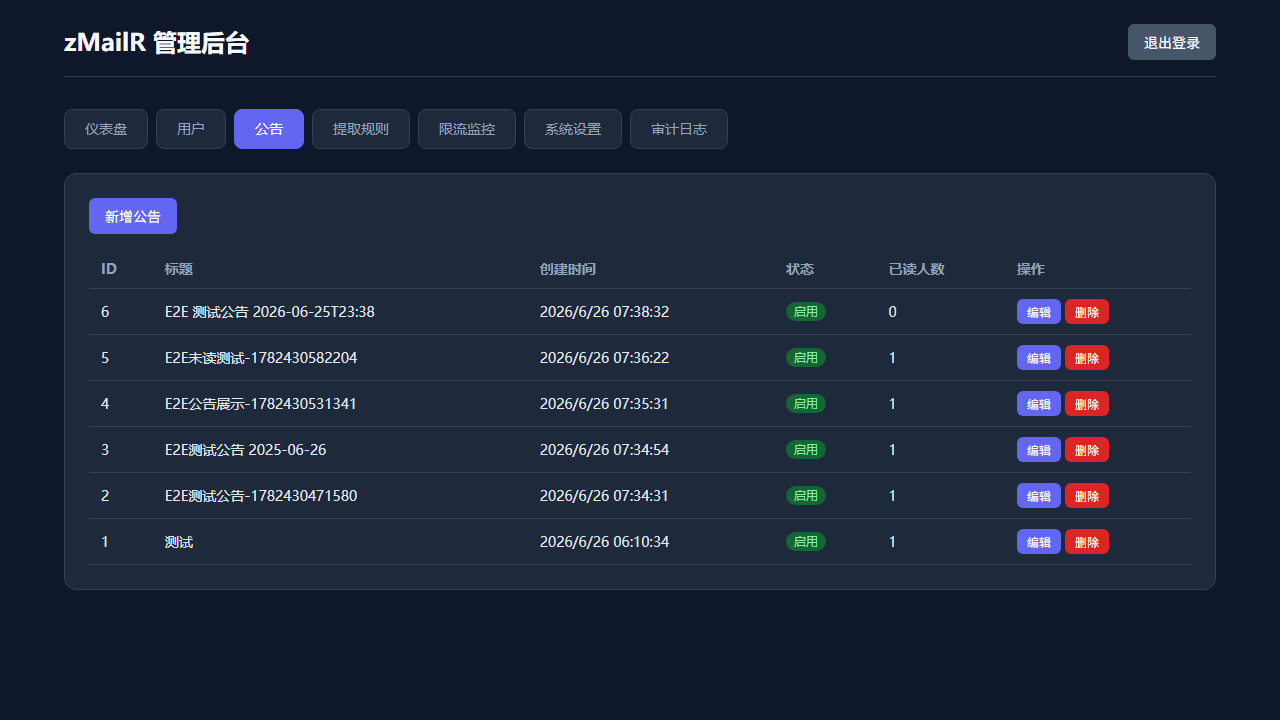
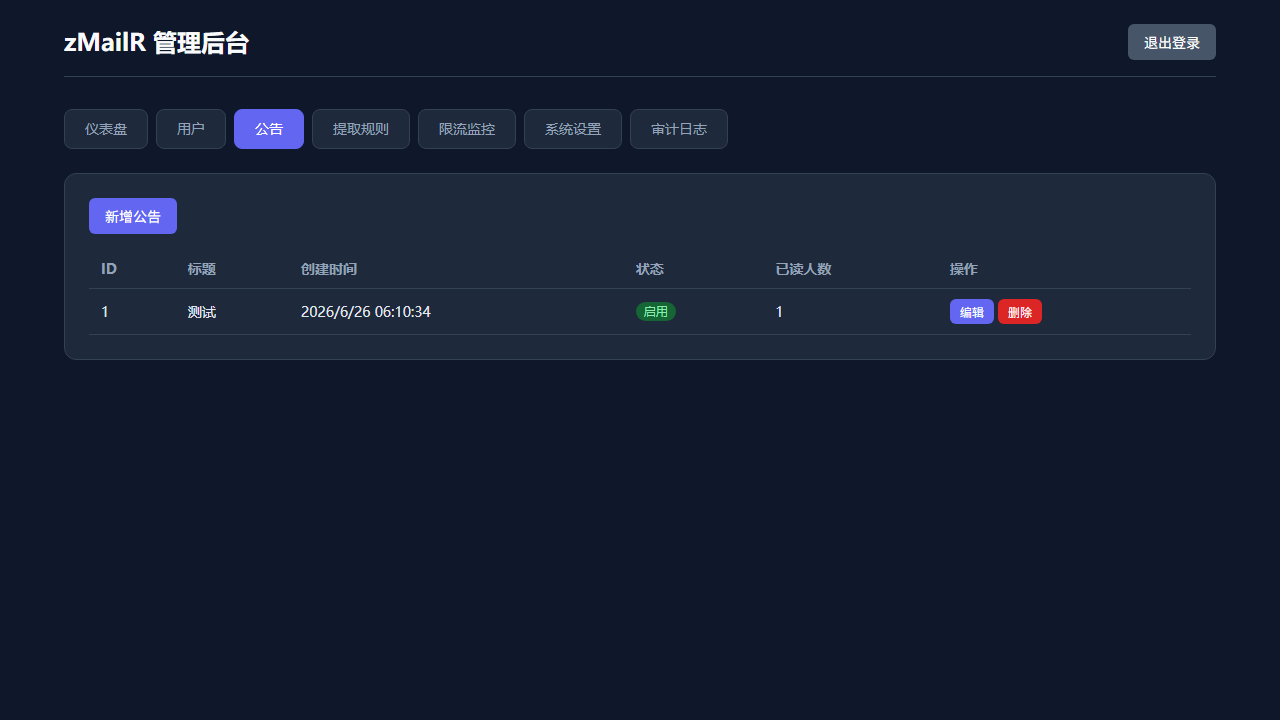
docs: refresh inbox OTP screenshot and README header badges
Re-capture inbox-with-otp with scroll to email list; move Git contributor
config from README to deploy.md; add shields.io badges and fix caption mismatches.

diff --git a/README.md b/README.md
@@ -1,12 +1,23 @@
-# <div align="center">zMailR · 24 小时临时邮箱服务</div>
+# <div align="center">zMailR</div>
 
 <div align="center">
+  <p><strong>24 小时临时邮箱服务</strong></p>
+
+  <p>
+    <a href="https://github.com/jia0327/zmailr/stargazers"><img src="https://img.shields.io/github/stars/jia0327/zmailr?style=social" alt="GitHub stars"></a>
+    <a href="https://opensource.org/licenses/MIT"><img src="https://img.shields.io/badge/License-MIT-yellow.svg" alt="MIT License"></a>
+    <a href="https://workers.cloudflare.com/"><img src="https://img.shields.io/badge/Cloudflare-Workers-F38020?logo=cloudflare&logoColor=white" alt="Cloudflare Workers"></a>
+    <a href="https://zmailr.itool.eu.cc/"><img src="https://img.shields.io/badge/demo-zmailr.itool.eu.cc-blue" alt="Live Demo"></a>
+  </p>
+
   <p><strong>Enhanced fork of <a href="https://github.com/zaunist/zmail">zaunist/zmail</a></strong>（MIT License）</p>
 
   <p>
     <a href="https://zmailr.itool.eu.cc/" target="_blank"><strong>在线体验</strong></a>
     ·
     <a href="./README.en.md">English</a>
+    ·
+    <a href="docs/deploy.md"><strong>部署指南</strong></a>
   </p>
 </div>
 
@@ -60,7 +71,7 @@
 
 ![新建收件箱 — 点击「新建收件箱」生成地址](docs/screenshots/inbox-new-mailbox.png)
 
-![收信与 OTP — POST /api/send 测试邮件到达，验证码 847291 高亮](docs/screenshots/inbox-with-otp.png)
+![收信与 OTP — 向下滚动至邮件列表，POST /api/send 测试邮件到达，验证码 847291 高亮](docs/screenshots/inbox-with-otp.png)
 
 #### 发件箱
 
@@ -104,7 +115,7 @@
 
 ![创建公告 — 新增 E2E 测试公告表单（标题/内容/启用）](docs/screenshots/admin-announcement-create.png)
 
-![公告列表 — 启用状态与已读人数](docs/screenshots/admin-announcements-list.png)
+![公告列表 — 「测试」公告启用，已读 1 人](docs/screenshots/admin-announcements-list.png)
 
 #### 用户管理
 
@@ -176,22 +187,6 @@
 ## Star History
 
 [![Star History Chart](https://api.star-history.com/svg?repos=jia0327/zmailr&type=Date)](https://star-history.com/#jia0327/zmailr&Date)
-
----
-
-## 贡献与 Git 配置
-
-为避免 Cursor Agent 自动写入 co-author 信息，建议每位贡献者做一次本地配置：
-
-1. **启用仓库 Git hooks**（一次性）：
-
-   ```bash
-   git config core.hooksPath .githooks
-   ```
-
-   仓库已提供 `.githooks/commit-msg`，会在提交前移除 `[email redacted]`、`Co-authored-by: … Cursor`、`Made-with: … Cursor` 等行。
-
-2. **关闭 Cursor 提交署名**：Cursor Settings → **Agents** → **Attribution** → 关闭 **Commit Attribution**。
 
 ---
 

diff --git a/docs/testing.md b/docs/testing.md
@@ -12,7 +12,7 @@
 | 2 | 用户端 · guest 登录后公告弹窗 | Pass | [announcement-modal.png](./screenshots/announcement-modal.png) |
 | 3 | 用户端 · API Token 创建 | Pass | [api-keys-create.png](./screenshots/api-keys-create.png) |
 | 4 | 用户端 · 新建收件箱 | Pass | [inbox-new-mailbox.png](./screenshots/inbox-new-mailbox.png) |
-| 5 | 用户端 · 收信 + OTP 高亮 | Pass | [inbox-with-otp.png](./screenshots/inbox-with-otp.png) |
+| 5 | 用户端 · 收信 + OTP 高亮（收件箱向下滚动至邮件列表） | Pass | [inbox-with-otp.png](./screenshots/inbox-with-otp.png) |
 | 6 | 用户端 · 发件箱 UI 发信 | Pass | [outbox-send.png](./screenshots/outbox-send.png), [outbox-sent.png](./screenshots/outbox-sent.png) |
 | 7 | 用户端 · 自定义提取规则 | Pass | [extract-rules-custom.png](./screenshots/extract-rules-custom.png) |
 | 8 | 用户端 · API 调试 GET /api/user/quota | Pass | [api-debug-response.png](./screenshots/api-debug-response.png) |